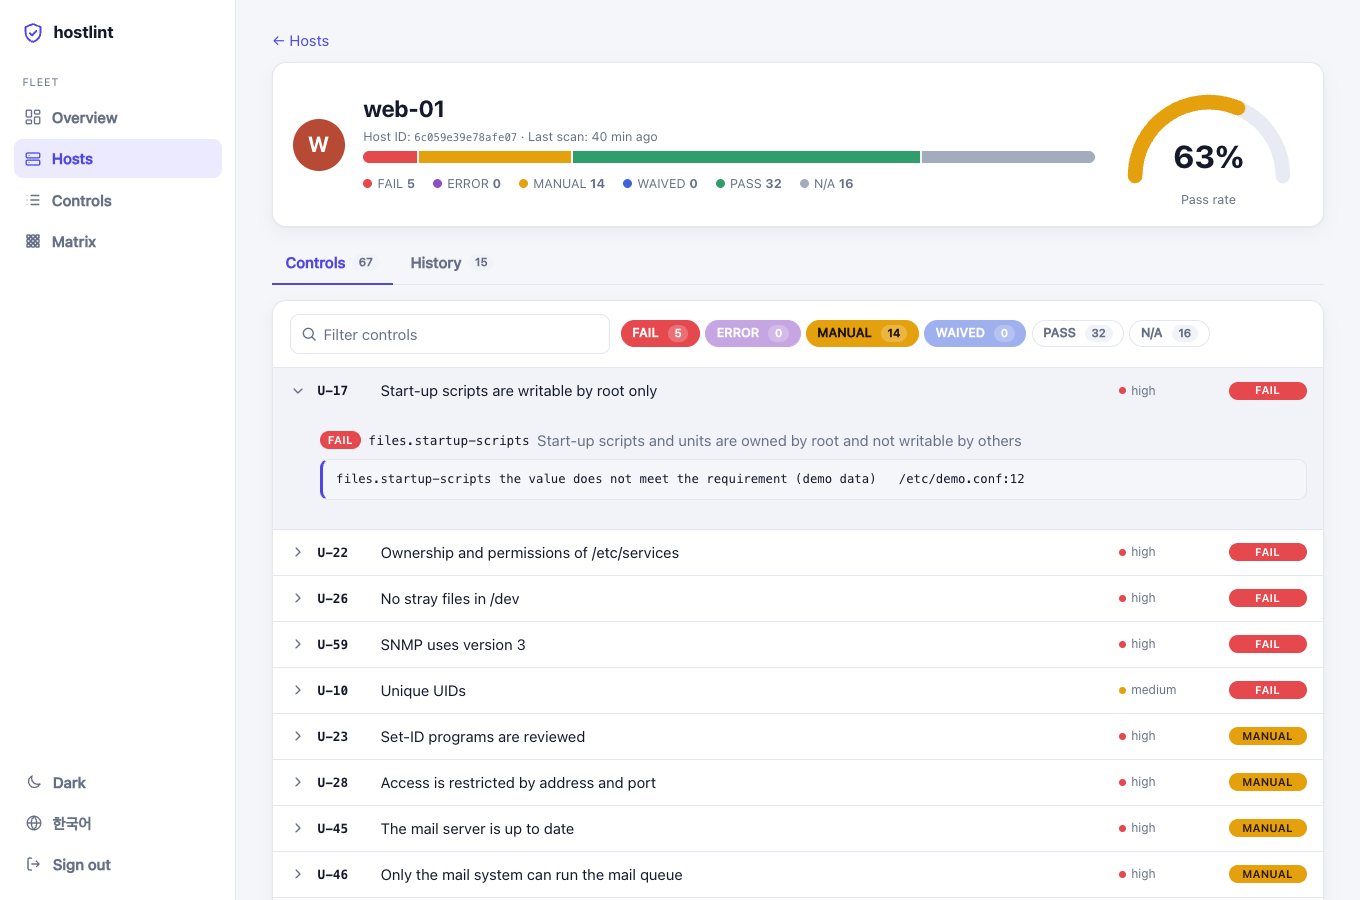
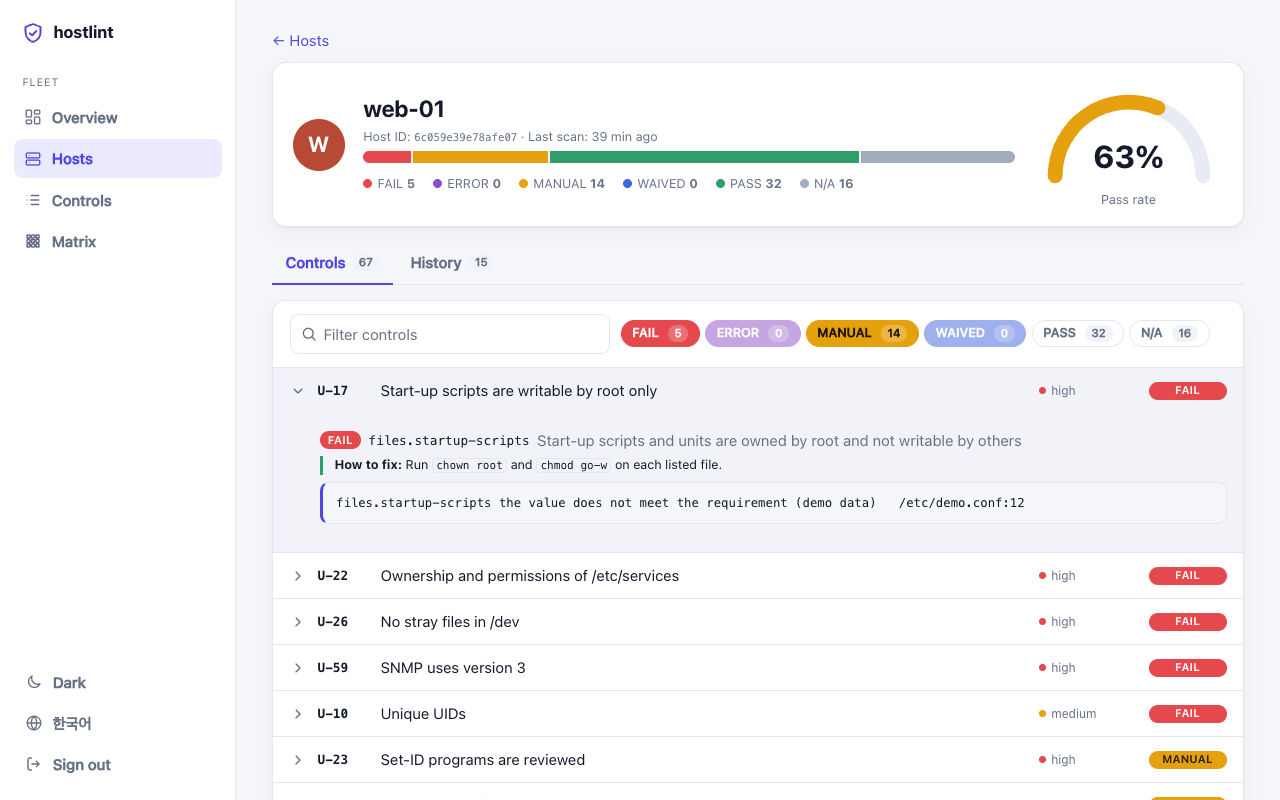
feat: dashboard: code spans in guidance, the demo shows how to fix; README leads with the dashboard (tour, features, pictures)

diff --git a/web/src/pages/Controls.tsx b/web/src/pages/Controls.tsx
@@ -3,7 +3,7 @@ import { api } from "../lib/api";
 import { useAsync } from "../lib/hooks";
 import { useI18n } from "../lib/i18n";
 import { compareControls, ctitle } from "../lib/format";
-import { Avatar, Await, Empty, PageHeader, Severity, Skeleton, StatusBadge, StatusBar } from "../components/ui";
+import { Avatar, Await, Empty, Inline, PageHeader, Severity, Skeleton, StatusBadge, StatusBar } from "../components/ui";
 import { IconSearch } from "../components/icons";
 import { STATUSES, type Status } from "../lib/types";
 import { STALE_DAYS } from "./Overview";
@@ -126,19 +126,19 @@ export function ControlPage({ profile, id }: { profile: string; id: string }) {
                   {ch.description && (
                     <>
                       <h3>{t("controls.what")}</h3>
-                      <p className="prose">{ch.description}</p>
+                      <p className="prose"><Inline text={ch.description} /></p>
                     </>
                   )}
                   {ch.rationale && (
                     <>
                       <h3>{t("controls.why")}</h3>
-                      <p className="prose">{ch.rationale}</p>
+                      <p className="prose"><Inline text={ch.rationale} /></p>
                     </>
                   )}
                   {ch.remediation && (
                     <>
                       <h3>{t("controls.fix")}</h3>
-                      <p className="prose remedy">{ch.remediation}</p>
+                      <p className="prose remedy"><Inline text={ch.remediation} /></p>
                     </>
                   )}
                 </section>

diff --git a/web/src/pages/Host.tsx b/web/src/pages/Host.tsx
@@ -3,7 +3,7 @@ import { ApiError, api } from "../lib/api";
 import { useAsync, useNow } from "../lib/hooks";
 import { useI18n } from "../lib/i18n";
 import { ago, compareControls, ctitle } from "../lib/format";
-import { Avatar, Await, Empty, Gauge, ScorePill, Severity, SignedBadge, StatusBadge, StatusBar } from "../components/ui";
+import { Avatar, Await, Empty, Gauge, Inline, ScorePill, Severity, SignedBadge, StatusBadge, StatusBar } from "../components/ui";
 import { TrendChart } from "../components/charts";
 import { IconChevron, IconSearch } from "../components/icons";
 import { STATUSES, type ControlChange, type ControlRow, type Diff, type ScanDoc, type ScanRow, type Status } from "../lib/types";
@@ -163,7 +163,7 @@ function ControlDetail({ control, doc }: { control: ControlRow; doc: ScanDoc }) 
           {ch.reason && <p className="muted small">{ch.reason}</p>}
           {ch.remediation && (
             <p className="prose remedy small">
-              <strong>{t("host.howToFix")}</strong> {ch.remediation}
+              <strong>{t("host.howToFix")}</strong> <Inline text={ch.remediation} />
             </p>
           )}
           {(ch.evidence?.length ?? 0) > 0 ? (

diff --git a/web/src/components/inline.test.ts b/web/src/components/inline.test.ts
@@ -1,0 +1,18 @@
+import { describe, expect, it } from "vitest";
+import { renderToStaticMarkup } from "react-dom/server";
+import { createElement } from "react";
+import { Inline } from "./ui";
+
+const html = (text: string) => renderToStaticMarkup(createElement(Inline, { text }));
+
+describe("Inline", () => {
+  it("makes code of what is in backticks", () => {
+    expect(html("Set `PermitRootLogin no` now")).toBe("<span>Set </span><code>PermitRootLogin no</code><span> now</span>");
+  });
+  it("keeps an unclosed backtick as text", () => {
+    expect(html("a `b")).toBe("<span>a `b</span>");
+  });
+  it("never lets host or pack text become markup", () => {
+    expect(html("`<img src=x onerror=alert(1)>` <b>x</b>")).toBe("<span></span><code>&lt;img src=x onerror=alert(1)&gt;</code><span> &lt;b&gt;x&lt;/b&gt;</span>");
+  });
+});

diff --git a/web/src/components/ui.tsx b/web/src/components/ui.tsx
@@ -209,3 +209,21 @@ export function Await<T>({ state, children, skeleton }: { state: Async<T>; child
 export function Empty({ children }: { children: ReactNode }) {
   return <div className="empty">{children}</div>;
 }
+
+/**
+ * Text with `code` spans, as the rules write their prose. Every part is React text (escaped); only the backticks mean
+ * anything, and an odd one out stays a plain character.
+ */
+export function Inline({ text }: { text: string }) {
+  const parts = text.split("`");
+  if (parts.length % 2 === 0) {
+    // an unclosed backtick: the last two parts are plain text again
+    const tail = parts.splice(-2).join("`");
+    parts.push(tail);
+  }
+  return (
+    <>
+      {parts.map((p, i) => (i % 2 === 1 ? <code key={i}>{p}</code> : <span key={i}>{p}</span>))}
+    </>
+  );
+}

diff --git a/web/src/styles.css b/web/src/styles.css
@@ -330,3 +330,4 @@ table.matrix .cell:hover { outline: 2px solid var(--text); outline-offset: 0; }
 .start h3 { margin-top: 1.1rem; }
 .command { display: flex; align-items: stretch; gap: .5rem; margin: .35rem 0; }
 .command pre { flex: 1; margin: 0; overflow-x: auto; background: var(--surface-2); border: 1px solid var(--border); border-radius: var(--radius-sm); padding: .6rem .8rem; font: .85rem/1.5 ui-monospace, SFMono-Regular, Menlo, monospace; }
+.prose code, .remedy code { background: var(--surface-2); border: 1px solid var(--border); border-radius: 5px; padding: 0 .3em; font: .88em ui-monospace, SFMono-Regular, Menlo, monospace; }

diff --git a/internal/server/demo.go b/internal/server/demo.go
@@ -148,11 +148,15 @@ func demoResult(content *engine.Content, profile *engine.Profile, h demoHost, da
 			}
 			st := demoCheckStatus(check, ctl.ID, mixed, h, failRate)
 			cr.Checks = append(cr.Checks, id)
-			res.Checks = append(res.Checks, engine.CheckResult{
+			cres := engine.CheckResult{
 				Ref: id, ID: id, Version: check.Version, Digest: digest, Title: check.Title, TitleKo: check.TitleKo, Severity: check.Severity,
 				Status: st, StatusSource: "observed", Reason: demoReason(st),
 				Evidence: demoEvidence(st, id), DurationMs: 3,
-			})
+			}
+			if st == engine.StatusFail { // as a real scan does: the rule's own guidance on a failed check
+				cres.Remediation = truncate(strings.TrimSpace(check.Remediation), maxRemediation)
+			}
+			res.Checks = append(res.Checks, cres)
 			if rank(st) > rank(worst) {
 				worst = st
 			}

diff --git a/README.ko.md b/README.ko.md
@@ -1,11 +1,11 @@
-<!-- translated from README.md @ bf547b7 -->
+<!-- translated from README.md @ ef6f086 -->
 # hostlint
 
 [![CI](https://github.com/with-developer/hostlint/actions/workflows/ci.yml/badge.svg)](https://github.com/with-developer/hostlint/actions/workflows/ci.yml)
 [![License](https://img.shields.io/badge/license-Apache--2.0-blue)](LICENSE)
 
 **리눅스 서버를 위한 eslint.** 정적 Go 바이너리 하나로 호스트의 보안 설정을 하드닝 기준과 비교하고,
-컨트롤마다 결과와 그 근거를 함께 보여 줍니다.
+컨트롤마다 결과와 그 근거를 함께 보여 주고, 플릿 전체를 한눈에 보여 주는 대시보드도 있습니다.
 
 [English](README.md)
 
@@ -39,6 +39,28 @@ kisa-2026: 67 controls — 10 FAIL, 11 MANUAL, 29 PASS, 17 NOT_APPLICABLE
 위 출력은 `PermitRootLogin yes`와 inetd telnet 서비스를 추가한 Debian 12 컨테이너의 결과를 줄인 것입니다
 (호스트 이름은 줄였습니다).
 
+## 플릿 전체를 보는 대시보드
+
+호스트가 스스로 스캔하고 결과를 `hostlint server`로 보내면, 서버가 이력을 보관하고 웹 대시보드로 플릿을
+보여 줍니다(영어와 한국어, 라이트·다크, 휴대폰 화면 지원).
+
+![hostlint 대시보드 투어: 개요, 호스트, 근거와 조치 방법이 있는 호스트, 컨트롤, 매트릭스, 한국어](docs/demo/dashboard-tour.gif)
+
+```sh
+hostlint server demo      # 가상의 호스트 12대. 스캔도 저장도 하지 않습니다. 출력된 주소를 여세요
+```
+
+- **플릿 전체의 시간에 따른 통과율**(7, 30, 90일)과 호스트마다의 추이선.
+- **가장 많이 실패하는 것과 방금 나빠진 것:** 대부분의 호스트에서 실패하는 컨트롤과 최근 스캔의 악화.
+- **모든 결과의 근거**(파일과 줄)와 실패마다 **조치 방법**.
+- **모든 호스트의 모든 컨트롤 매트릭스.** 셀 하나로 그 호스트로 이동합니다.
+- **한 번에 프로파일 하나**(KISA, essentials, 직접 만든 정책 팩), 목록에 호스트의 OS와 라벨.
+- **지금 스캔:** 호스트의 에이전트가 바깥으로 연결해 두고, 요청이 오면 호스트가 허용한 프로파일로 스캔합니다.
+  서버는 호스트에 접속하지 않습니다.
+- **서명된 결과:** 저장된 모든 결과를 호스트가 서명한 키로 확인할 수 있습니다.
+
+데모로 10초 만에 써 보거나 실제 결과를 보내 보세요: [docs/fleet.ko.md](docs/fleet.ko.md).
+
 > 🚧 **초기 릴리스입니다.** 흔치 않은 환경에서는 거친 부분이 있을 수 있으니 알려 주세요.
 > [로드맵](docs/ROADMAP.md)과 [릴리스 이력](docs/RELEASING.md)을 참고하세요.
 
@@ -56,6 +78,8 @@ kisa-2026: 67 controls — 10 FAIL, 11 MANUAL, 29 PASS, 17 NOT_APPLICABLE
   주요정보통신기반시설 기술적 취약점 분석·평가 가이드 2026년판(Unix U-01–U-67)입니다.
 - **운영 중인 호스트와 이미지 모두.** 실행 중인 시스템, 다른 곳에 마운트한 루트 파일시스템
   (`--root`), 또는 `docker save`가 쓴 아카이브의 컨테이너 이미지(`--image-tar`)를 점검합니다.
+- **신뢰할 에이전트 없이 보는 플릿.** 호스트가 보내고 서버는 접속하지 않습니다. 이력과 서명된 결과를 보관하고
+  추이, 악화, 매트릭스를 보여 줍니다([위](#플릿-전체를-보는-대시보드)).
 - **파이프라인에 맞춰 만들었습니다.** 터미널 표, JSON(스키마 포함), SARIF, JUnit을 지원하고, 종료
   코드는 지정한 심각도를 따릅니다. 실패한 점검은 조치 방법을 함께 알려 줍니다: `explain`, JSON(`remediation`),
   SARIF(코드 스캐닝이 경고와 함께 보여 주는 규칙 도움말), Markdown 요약, HTML 보고서, 대시보드.
@@ -186,19 +210,17 @@ test`로 테스트하고 `hostlint pack show`로 검토하고 `hostlint scan --p
 
 제목과 설명은 hostlint가 직접 작성했고, 프로파일은 컨트롤 ID만 참조합니다.
 
-## 플릿 대시보드 (초기)
+## 대시보드 화면
 
-호스트가 스스로 스캔하고 결과를 `hostlint server`로 보내면, 서버가 이력을 보관하고 웹 대시보드로 플릿을
-보여 줍니다. 통과율, 가장 많이 실패하는 컨트롤, 직전 스캔 이후의 악화, 모든 호스트의 모든 컨트롤 매트릭스,
-각 결과의 근거를 볼 수 있습니다. 서버는 호스트에 접속하지 않습니다. 요청 시 스캔은 호스트의 `hostlint agent`가 바깥으로 연결해 두고
-대시보드의 "지금 스캔"을 기다리는 방식입니다. 호스트 없이 써 보려면
-`hostlint server demo`가 가상의 플릿으로 서버를 띄웁니다. [docs/fleet.ko.md](docs/fleet.ko.md)를 참고하세요.
-
-![대시보드 개요](docs/demo/dashboard-overview.png)
-
-| 모든 호스트의 모든 컨트롤 매트릭스 | 호스트 하나: 컨트롤, 근거, 이력 |
+| 개요 | 호스트 목록: 추이, OS, 라벨 |
 |---|---|
-| ![매트릭스](docs/demo/dashboard-matrix.png) | ![호스트](docs/demo/dashboard-host.png) |
+| ![대시보드 개요: 통과율, 시간에 따른 통과율, 가장 많이 실패하는 것](docs/demo/dashboard-overview.png) | ![호스트 목록](docs/demo/dashboard-hosts.png) |
+
+| 호스트 하나: 컨트롤, 근거, 실패마다 조치 방법 | 모든 호스트의 모든 컨트롤 매트릭스(다크) |
+|---|---|
+| ![호스트](docs/demo/dashboard-host.png) | ![매트릭스](docs/demo/dashboard-matrix.png) |
+
+동작 방식, API, 서명, 알림, 에이전트: [docs/fleet.ko.md](docs/fleet.ko.md).
 
 ## 원칙
 
@@ -217,8 +239,8 @@ hostlint는 활발히 개발 중입니다. KISA 2026 프로파일(U-01–U-67), 
 SARIF·JUnit·여러 호스트 HTML 출력, 예외(waiver)를 담는 설정 파일, 릴리스 파이프라인(서명된 아카이브,
 패키지, SBOM, `install.sh`), 지원하는 모든 배포판에 대한 컨테이너 테스트 매트릭스, 컨테이너 이미지 점검
 ([docs/images.ko.md](docs/images.ko.md)), GitHub Action([docs/ci.ko.md](docs/ci.ko.md)), 대시보드가 있는 플릿
-서버와 서명된 결과, 웹훅([docs/fleet.ko.md](docs/fleet.ko.md))이 갖춰졌고, v0.22.0이 최신 릴리스입니다. 예약
-점검을 위한 아웃바운드 에이전트는 계획 중입니다. [로드맵](docs/ROADMAP.md)을 참고하세요.
+서버와 서명된 결과, 웹훅([docs/fleet.ko.md](docs/fleet.ko.md))이 갖춰졌고, v0.22.0이 최신 릴리스입니다. 요청 시 스캔을 위한 아웃바운드 에이전트([docs/fleet.ko.md](docs/fleet.ko.md))와 컨테이너 이미지
+([docs/container.ko.md](docs/container.ko.md))도 갖춰졌습니다. [로드맵](docs/ROADMAP.md)을 참고하세요.
 
 ## 라이선스
 

diff --git a/README.md b/README.md
@@ -5,7 +5,7 @@
 
 **eslint for Linux servers.** One static Go binary that checks a host's security configuration
 against a hardening baseline and reports a result for every control — with the evidence behind
-it.
+it — and a dashboard that shows the whole fleet.
 
 [한국어](README.ko.md)
 
@@ -39,6 +39,28 @@ kisa-2026: 67 controls — 10 FAIL, 11 MANUAL, 29 PASS, 17 NOT_APPLICABLE
 The output above is abridged, from a Debian 12 container with `PermitRootLogin yes` and an inetd
 telnet service added (the host name is shortened).
 
+## A dashboard for the whole fleet
+
+Hosts scan themselves and push the result to `hostlint server`, which keeps the history and shows the
+fleet in a web dashboard (English and Korean, light and dark, fits a phone):
+
+![A tour of the hostlint dashboard: overview, hosts, a host with evidence and how to fix it, a control, the matrix, Korean](docs/demo/dashboard-tour.gif)
+
+```sh
+hostlint server demo      # a made-up fleet of twelve hosts, nothing scanned, nothing written: open the address it prints
+```
+
+- **Pass rate over time** for the whole fleet (7, 30 or 90 days), and a trend line on every host.
+- **What fails most, and what just got worse:** the controls that fail on most hosts, and the regressions of the last scans.
+- **The evidence behind every result,** the file and the line, with **how to fix it** next to each failure.
+- **A matrix of every control on every host,** one click from a cell to the host.
+- **One profile at a time** (KISA, essentials, your own policy pack), with host OS and labels in the list.
+- **Scan now:** an agent on a host dials out and scans when someone asks, with a profile the host allows; the
+  server never connects to a host.
+- **Signed results:** every stored result can be checked against the key its host signs with.
+
+Try it in ten seconds with the demo above, or send real results: [docs/fleet.md](docs/fleet.md).
+
 > 🚧 **Early release.** Expect rough edges in the less common setups, and report them. See the
 > [roadmap](docs/ROADMAP.md) and the [release history](docs/RELEASING.md).
 
@@ -56,6 +78,8 @@ telnet service added (the host name is shortened).
   the 2026 edition of Korea's KISA CII technical vulnerability guide (Unix U-01–U-67).
 - **Live hosts and images.** Scan the running system, a root filesystem mounted elsewhere
   (`--root`), or a container image straight from the archive `docker save` wrote (`--image-tar`).
+- **A fleet view without an agent to trust.** Hosts push; the server never connects, keeps the history
+  and signed results, and shows trends, regressions and a matrix ([above](#a-dashboard-for-the-whole-fleet)).
 - **Built for pipelines.** Terminal table, JSON (with a schema), SARIF and JUnit; the exit code
   follows the severity you choose. A failed check says how to fix it: in `explain`, the JSON
   (`remediation`), SARIF (the rule's help, which code scanning shows with the alert), the Markdown summary,
@@ -192,20 +216,17 @@ results name the pack and its digest.
 
 Titles and descriptions are hostlint's own; profiles reference control IDs only.
 
-## Fleet dashboard (early)
+## The dashboard in pictures
 
-Hosts scan themselves and push the result to a `hostlint server`, which keeps the history and shows
-the fleet in a web dashboard: pass rate, the controls that fail most, regressions since the last
-scan, a matrix of every control on every host, and the evidence behind each result. The server never
-connects to a host; to scan one on demand, its `hostlint agent` dials out and waits for a "scan now" from the
-dashboard. Try it without any host: `hostlint server demo` starts it with a made-up fleet.
-See [docs/fleet.md](docs/fleet.md).
-
-![The overview of the dashboard](docs/demo/dashboard-overview.png)
-
-| Matrix of every control on every host | A host: its controls, evidence and history |
+| Overview | Hosts, with trend, OS and labels |
 |---|---|
-| ![The matrix](docs/demo/dashboard-matrix.png) | ![A host](docs/demo/dashboard-host.png) |
+| ![The overview of the dashboard: pass rate, pass rate over time, what fails most](docs/demo/dashboard-overview.png) | ![The list of hosts](docs/demo/dashboard-hosts.png) |
+
+| A host: its controls, the evidence and how to fix each failure | Matrix of every control on every host (dark) |
+|---|---|
+| ![A host](docs/demo/dashboard-host.png) | ![The matrix](docs/demo/dashboard-matrix.png) |
+
+How it works, the API, signing, notifications and the agent: [docs/fleet.md](docs/fleet.md).
 
 ## Principles
 
@@ -226,7 +247,8 @@ with waivers, the release pipeline (signed archives, packages, SBOMs and `instal
 container test matrix over every supported distribution, scanning container images
 ([docs/images.md](docs/images.md)), a GitHub Action ([docs/ci.md](docs/ci.md)) and the fleet server with its
 dashboard, signed results and webhook ([docs/fleet.md](docs/fleet.md)) are in place, and v0.22.0 is the
-latest release. The outbound agent for scheduled scans is planned. See the [roadmap](docs/ROADMAP.md).
+latest release. The outbound agent for on-demand scans ([docs/fleet.md](docs/fleet.md)) and a container image
+([docs/container.md](docs/container.md)) are in place too. See the [roadmap](docs/ROADMAP.md).
 
 ## License
 

diff --git a/docs/fleet.ko.md b/docs/fleet.ko.md
@@ -1,4 +1,4 @@
-<!-- translated from docs/fleet.md @ 4839232 -->
+<!-- translated from docs/fleet.md @ ef6f086 -->
 # 플릿 서버 (초기)
 
 > [ADR 0010](adr/0010-fleet-server-and-dashboard.md)의 1단계입니다. 서버는 결과를 받아 저장하고
@@ -12,7 +12,7 @@
 대시보드가 포함되도록 빌드된 바이너리는 `hostlint server run`의 주소에서 웹 대시보드를 제공합니다.
 릴리스 바이너리에는 포함되어 있고, 소스에서 빌드할 때는 `make build-web`(Node 22)을 씁니다.
 `go install`로 설치한 바이너리에는 API만 있고 `/`에서 그렇게 안내합니다. 조회 토큰
-(`hostlint server token create --scope api`)으로 로그인하면, 전체 현황(통과율, 실패한 컨트롤이 있는
+(`hostlint server token create --scope api`)으로 로그인하면, 전체 현황(통과율, 7·30·90일간 통과율 추이, 실패한 컨트롤이 있는
 호스트, 보고를 멈춘 호스트, 가장 많이 실패하는 컨트롤, 최근 악화), 호스트 목록(검색, 필터, 정렬, CSV
 내보내기), 컨트롤 목록(컨트롤마다 무엇을 점검하는지, 왜 중요한지, 조치 방법, 실패한 호스트), 모든 호스트의 모든 컨트롤 매트릭스, 그리고 호스트별로 모든 점검의 근거가 있는 컨트롤, 이력, 직전 스캔과의 비교를 볼 수 있습니다.
 영어와 한국어를 지원하고 시스템의 라이트/다크 테마를 따릅니다. 호스트가 보낸 내용은 모두 텍스트로만
@@ -206,8 +206,9 @@ curl --cacert tls.crt -H "Authorization: Bearer hlt_api_..." https://hostlint.ex
 | 요청 | 응답 |
 |---|---|
 | `GET /api/v1/profiles` | 최신 스캔의 프로파일과 호스트 수, 가장 많은 호스트가 쓰는 프로파일(`default`), 제목 |
+| `GET /api/v1/trend` | 최근 며칠간의 플릿을 하루에 한 점씩, 오래된 것부터: 호스트 수, 실패 컨트롤이 있는 호스트, 그날 기준의 상태별 개수와 통과율(`?days=30`, 1~90) |
 | `GET /api/v1/overview` | 호스트 수, 실패 컨트롤이 있는 호스트, 오래 보고하지 않은 호스트, 상태별 개수, 가장 많은 호스트에서 실패하는 컨트롤, 최근 악화(`?staleDays=7`) |
-| `GET /api/v1/hosts` | 호스트별 최신 스캔의 개수와 점수 (`?q=`, `?status=failing\|stale`, `?sort=name\|score\|last`, `?limit=`, `?offset=`, `?format=csv`) |
+| `GET /api/v1/hosts` | 호스트별 최신 스캔의 개수와 점수 (`?q=`, `?status=failing\|stale`, `?sort=name\|score\|last`, `?limit=`, `?offset=`, `?format=csv`). 호스트마다 `os`, `labels`(최신 결과가 말하는 것, 길이 제한 있음), `agentOnline`, 최근 스캔의 통과율 `trend`도 있습니다 |
 | `GET /api/v1/controls`, `GET /api/v1/controls/PROFILE/ID` | 최신 스캔 기준 컨트롤별 상태 개수, 컨트롤 하나의 호스트 목록과 점검 내용·조치 방법 |
 | `GET /api/v1/matrix` | 모든 호스트의 모든 컨트롤의 최신 상태, 가장 많이 실패한 호스트가 먼저 |
 | `GET /api/v1/hosts/ID` | 호스트 하나: 최신 컨트롤과 이력 |

diff --git a/docs/fleet.md b/docs/fleet.md
@@ -11,9 +11,10 @@ it cannot make one scan, run anything or read anything there.
 `hostlint server run` serves a web dashboard at its address when the binary was built with it: the
 release binaries are, and a source build uses `make build-web` (Node 22). A binary from `go install`
 has the API only and says so at `/`. Sign in with a read token (`hostlint server token create --scope
-api`): the dashboard shows the fleet overview (pass rate, hosts with a failing control, hosts that
+api`): the dashboard shows the fleet overview (pass rate, the pass rate over time for 7, 30 or 90 days, hosts with a failing control, hosts that
 stopped reporting, the controls that fail most, recent regressions), the host list (search, filters,
-sorting, CSV export), a list of controls (and for each one what it checks, why it matters, how to fix it and the hosts that fail it), a matrix of every control on every host, and for each host its controls with the evidence of every check, its history and a
+sorting, CSV export, and for each host its operating system, labels, a trend line of its latest scans and whether
+its agent is connected), a list of controls (and for each one what it checks, why it matters, how to fix it and the hosts that fail it), a matrix of every control on every host, and for each host its controls with the evidence of every check, its history and a
 comparison of any scan with the one before. It is available in English and Korean and follows the
 system's light or dark theme. Everything a host sent is shown as text.
 
@@ -239,8 +240,9 @@ curl --cacert tls.crt -H "Authorization: Bearer hlt_api_..." https://hostlint.ex
 | Request | Answer |
 |---|---|
 | `GET /api/v1/profiles` | The profiles of the latest scans with the number of hosts of each, the one most hosts use (`default`), and their titles |
+| `GET /api/v1/trend` | The fleet over the last days, one point a day, oldest first: hosts, hosts with a failing control, counts and pass rate as of that day (`?days=30`, 1 to 90) |
 | `GET /api/v1/overview` | Hosts, hosts with a failing control, stale hosts, counts, the controls that fail on most hosts, recent regressions (`?staleDays=7`) |
-| `GET /api/v1/hosts` | The hosts with the counts and score of their latest scan (`?q=`, `?status=failing\|stale`, `?sort=name\|score\|last`, `?limit=`, `?offset=`, `?format=csv`) |
+| `GET /api/v1/hosts` | The hosts with the counts and score of their latest scan (`?q=`, `?status=failing\|stale`, `?sort=name\|score\|last`, `?limit=`, `?offset=`, `?format=csv`); each host also has its `os`, `labels` (what its latest result says, bounded), `agentOnline` and a `trend` of the pass rate of its latest scans |
 | `GET /api/v1/controls`, `GET /api/v1/controls/PROFILE/ID` | Every control with the status counts of the latest scans; one control with its hosts, and what it checks and how to fix it |
 | `GET /api/v1/matrix` | The latest status of every control on every host, hosts that fail most first |
 | `GET /api/v1/hosts/ID` | One host: its latest controls and its history |
